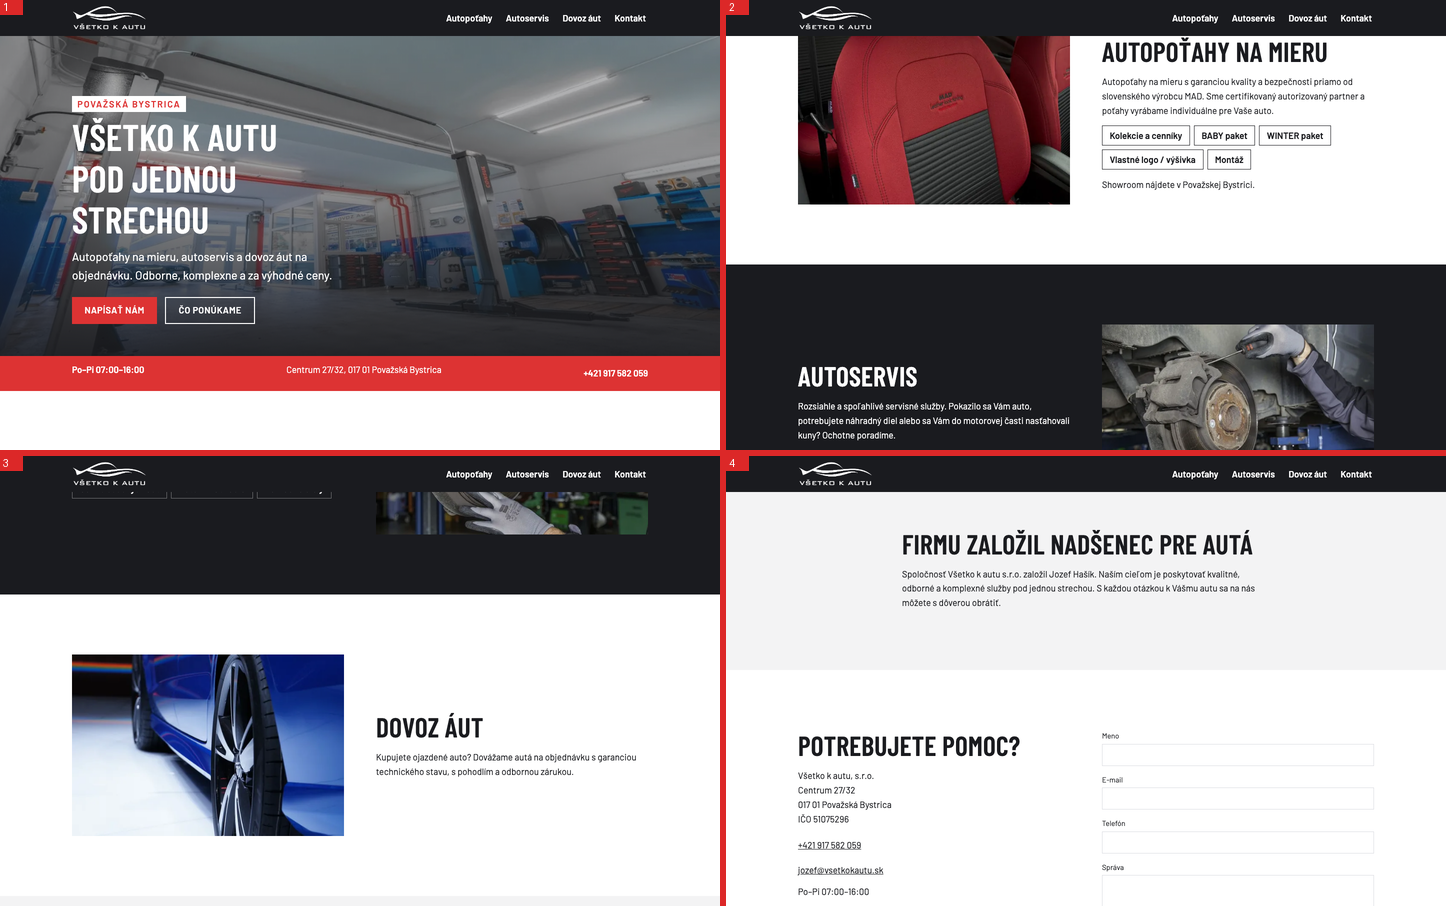
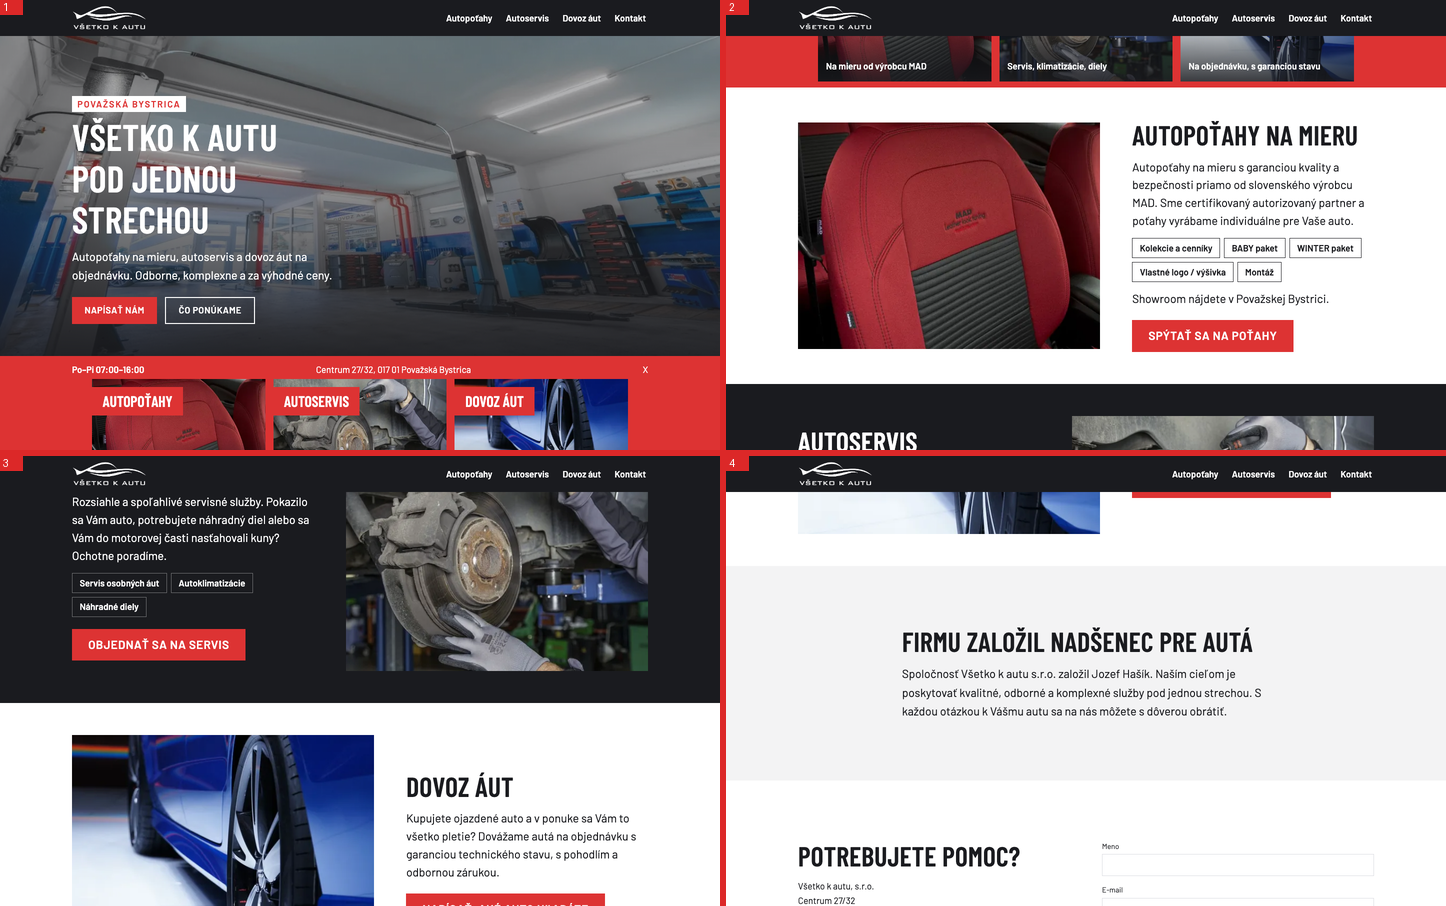
Aktualizace webu 2026-10-16 10:24

diff --git a/src/index.html b/src/index.html
@@ -16,7 +16,11 @@
   <div class="wrap pas-in">
     <p><strong>Po–Pi 07:00–16:00</strong></p>
     <p>Centrum 27/32, 017 01 Považská Bystrica</p>
-    <p>X
+    <p><a href="tel:+421917582059">+421 917 582 059</a></p>
+  </div>
+</section>
+
+<section class="rozcestnik">
   <div class="wrap">
     <h2 class="sr-only">Naše služby</h2>
     <ul class="dlazdice" role="list">
@@ -75,8 +79,25 @@
 
 <section class="sekce onas">
   <div class="wrap onas-in">
-    <h2>Firmu založil nadšenec pre autá</h2>
-    <p>Spoločnosť Všetko k autu s.r.o. založil Jozef Hašík. Naším cieľom je poskytovať kvalitné, odborné a komplexné služby pod jednou strechou. S každou otázkou k Vášmu autu sa na nás môžete s dôverou obrátiť.</p>
+    <div class="onas-foto">{{ img('foto-01.jpg', 'Interiér auta s čalúnením na mieru', sizes='(min-width: 60rem) 50vw, 100vw') }}</div>
+    <div class="onas-text">
+      <h2>Firmu založil nadšenec pre autá</h2>
+      <p>Spoločnosť Všetko k autu s.r.o. založil Jozef Hašík. Veríme, že sa Vám podarí nájsť u nás všetko, čo hľadáte k Vášmu autu: kvalitné, odborné a komplexné služby pod jednou strechou za výhodné ceny.</p>
+    </div>
+    <div class="pomoc">
+      <h3>S čím Vám pomôžeme</h3>
+      <ul role="list">
+        <li>Pokazilo sa Vám auto</li>
+        <li>Potrebujete kúpiť náhradný diel</li>
+        <li>Zle vidíte v noci</li>
+        <li>Chcete za autom ťahať prívesný vozík</li>
+        <li>Radi by ste sa previezli po teréne</li>
+        <li>Do motora sa Vám nasťahovali kuny alebo hlodavce</li>
+        <li>Chcete vynoviť a oživiť interiér</li>
+        <li>Vaše auto doslúžilo a potrebujete ďalšie</li>
+        <li>Pýta sa nové prezutie</li>
+      </ul>
+    </div>
   </div>
 </section>
 

diff --git a/static/css/style.css b/static/css/style.css
@@ -137,3 +137,23 @@ h2 { font-size:var(--step-4); }
   .pas-in { flex-direction:column; }
   [id] { scroll-margin-top:4rem; }
 }
+.onas-in { max-width:var(--wrap); display:grid; gap:var(--space-4); }
+@media (min-width:60rem){ .onas-in { grid-template-columns:1fr 1fr; align-items:center; } .pomoc { grid-column:1 / -1; } }
+.onas-foto img { width:100%; aspect-ratio:4/3; object-fit:cover; }
+.onas-text { display:grid; gap:var(--space-2); }
+.pomoc h3 { margin-bottom:var(--space-2); font-size:var(--step-2); }
+.pomoc ul { display:grid; gap:.6rem 2rem; }
+@media (min-width:50rem){ .pomoc ul { grid-template-columns:repeat(3,1fr); } }
+.pomoc li { border-top:2px solid var(--accent); padding-top:.5rem; font-size:var(--step-0); }
+.hlavicka .logo { display:inline-flex; align-items:center; min-height:44px; }
+.hl-menu { display:none; }
+@media (max-width:47.99rem){
+  .hl-menu { display:block; margin-left:auto; }
+  .hl-menu summary { list-style:none; width:44px; height:44px; display:flex; align-items:center; justify-content:center; cursor:pointer; }
+  .hl-menu summary::-webkit-details-marker { display:none; }
+  .hl-menu summary span, .hl-menu summary span::before, .hl-menu summary span::after { display:block; width:22px; height:2px; background:#fff; position:relative; content:''; }
+  .hl-menu summary span::before { position:absolute; top:-7px; } .hl-menu summary span::after { position:absolute; top:7px; }
+  .hl-panel { position:absolute; left:0; right:0; top:100%; background:var(--dark); display:grid; padding:.5rem var(--gutter) 1rem; border-top:1px solid rgba(255,255,255,.15); }
+  .hl-panel a { color:#fff; text-decoration:none; font-weight:600; display:flex; align-items:center; min-height:48px; }
+  .hlavicka .wrap { position:relative; }
+}

diff --git a/src/_base.html b/src/_base.html
@@ -28,6 +28,7 @@
     <nav aria-label="Hlavné">
       {% for n in site.nav %}<a href="{{ n.href if n.href.startswith('#') or n.href.startswith('http') else url(n.href) }}">{{ n.text }}</a> {% endfor %}
     </nav>
+    <details class="hl-menu"><summary aria-label="Menu"><span></span></summary><div class="hl-panel">{% for n in site.nav %}<a href="{{ n.href }}">{{ n.text }}</a>{% endfor %}</div></details>
     <a class="hl-tel" href="tel:{{ site.kontakt.telefon|replace(' ', '') }}">Zavolať</a>
   </div>
 </header>
